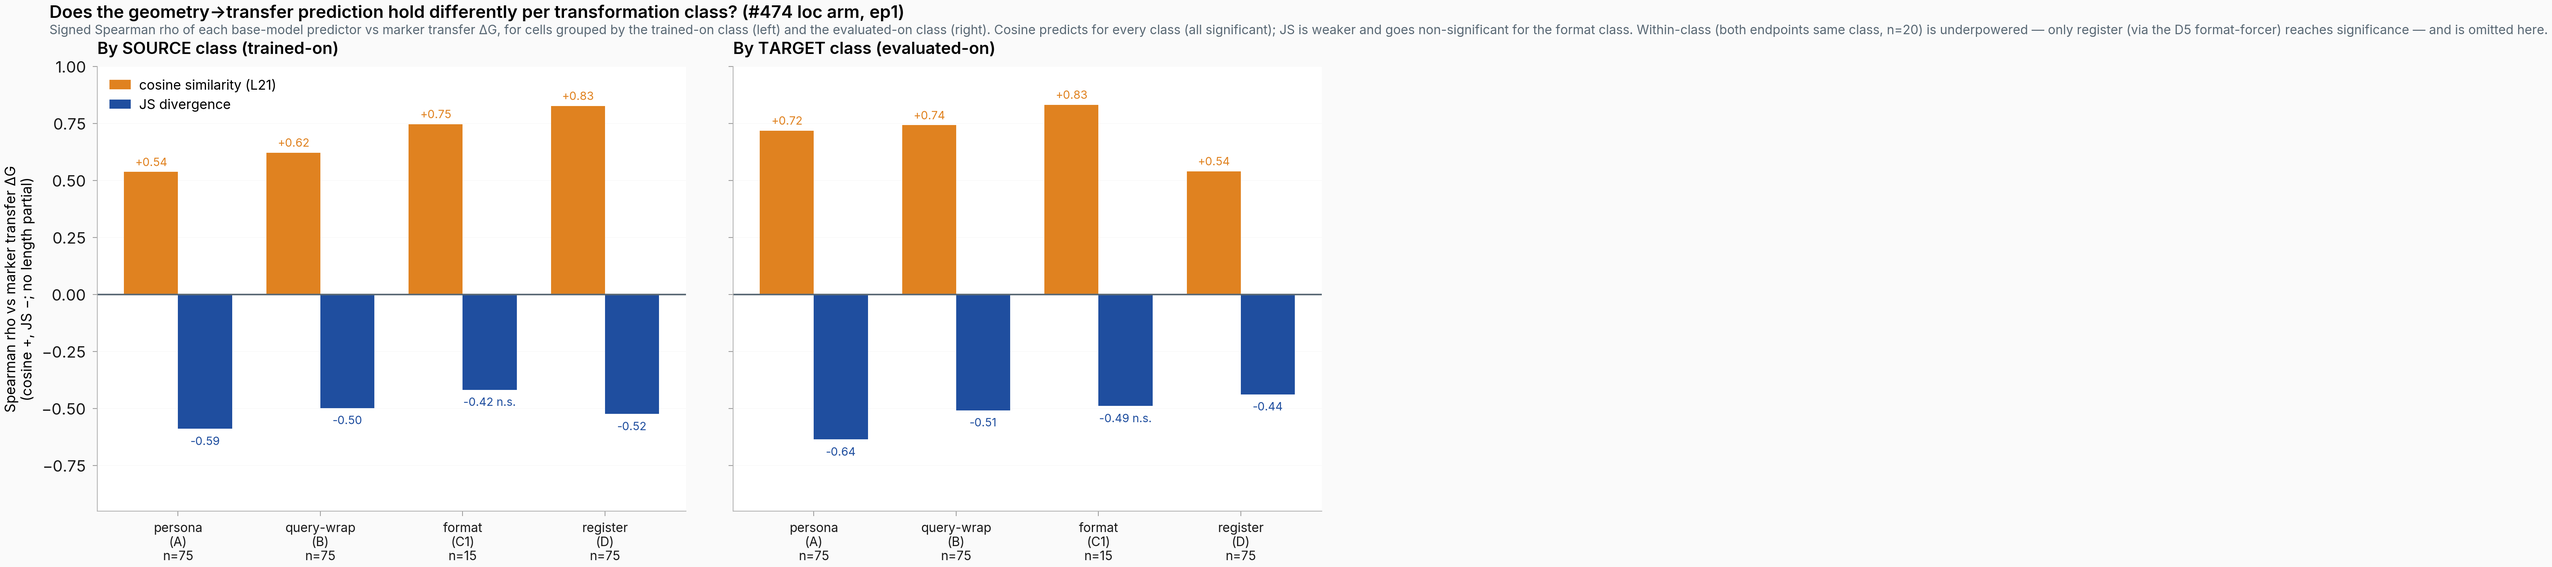
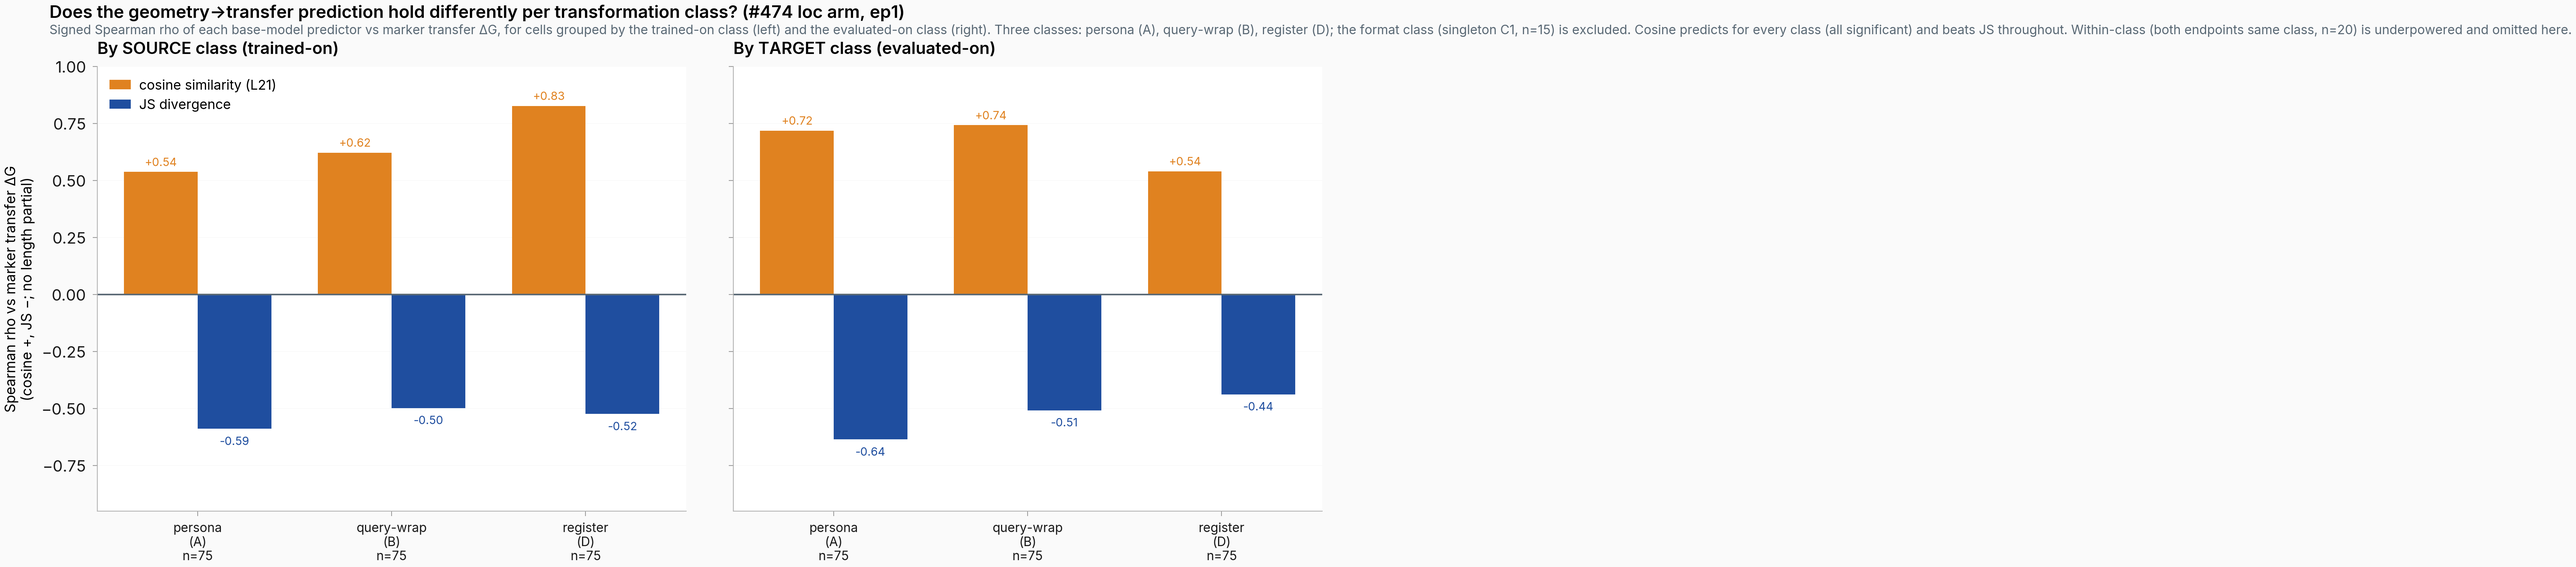
analysis(#474): drop format class from per-class figure (singleton C1, n=15)
Now persona (A) / query-wrap (B) / register (D), all n=75. Cosine predicts every
class (+0.54..+0.83); JS weaker throughout.

Generated with [Claude Code](https://claude.ai/code)
via [Happy](https://happy.engineering)

diff --git a/scripts/i474_cosine_followup.py b/scripts/i474_cosine_followup.py
@@ -1009,7 +1009,7 @@ def fig8_by_class(rows):
         paper_palette_role("neutral"),
     )
     G = _load_G("loc", 1)
-    classes = ["A", "B", "C", "D"]
+    classes = ["A", "B", "D"]  # format (C) excluded: singleton C1, n=15 per slice
     labels = {
         "A": "persona\n(A)",
         "B": "query-wrap\n(B)",
@@ -1084,8 +1084,8 @@ def fig8_by_class(rows):
         0.05,
         0.935,
         "Signed Spearman rho of each base-model predictor vs marker transfer ΔG, for cells grouped by the trained-on class (left) and the evaluated-on "
-        "class (right). Cosine predicts for every class (all significant); JS is weaker and goes non-significant for the format class. Within-class (both "
-        "endpoints same class, n=20) is underpowered — only register (via the D5 format-forcer) reaches significance — and is omitted here.",
+        "class (right). Three classes: persona (A), query-wrap (B), register (D); the format class (singleton C1, n=15) is excluded. Cosine predicts for "
+        "every class (all significant) and beats JS throughout. Within-class (both endpoints same class, n=20) is underpowered and omitted here.",
         fontsize=8.0,
         color=neu,
         ha="left",
